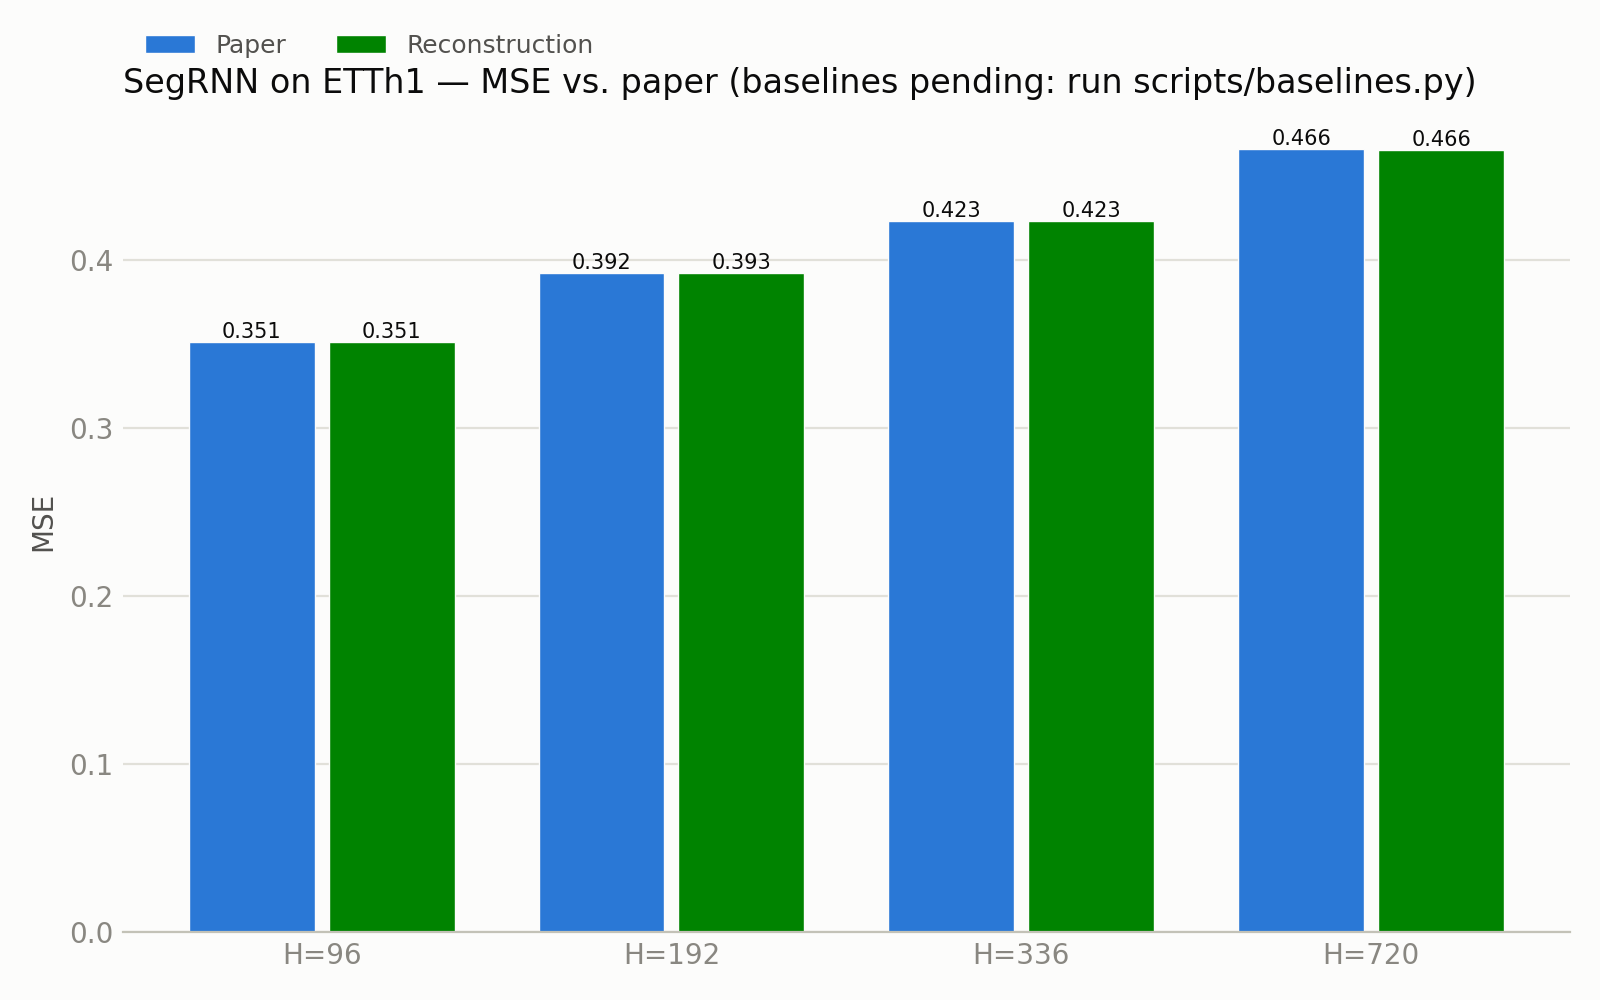
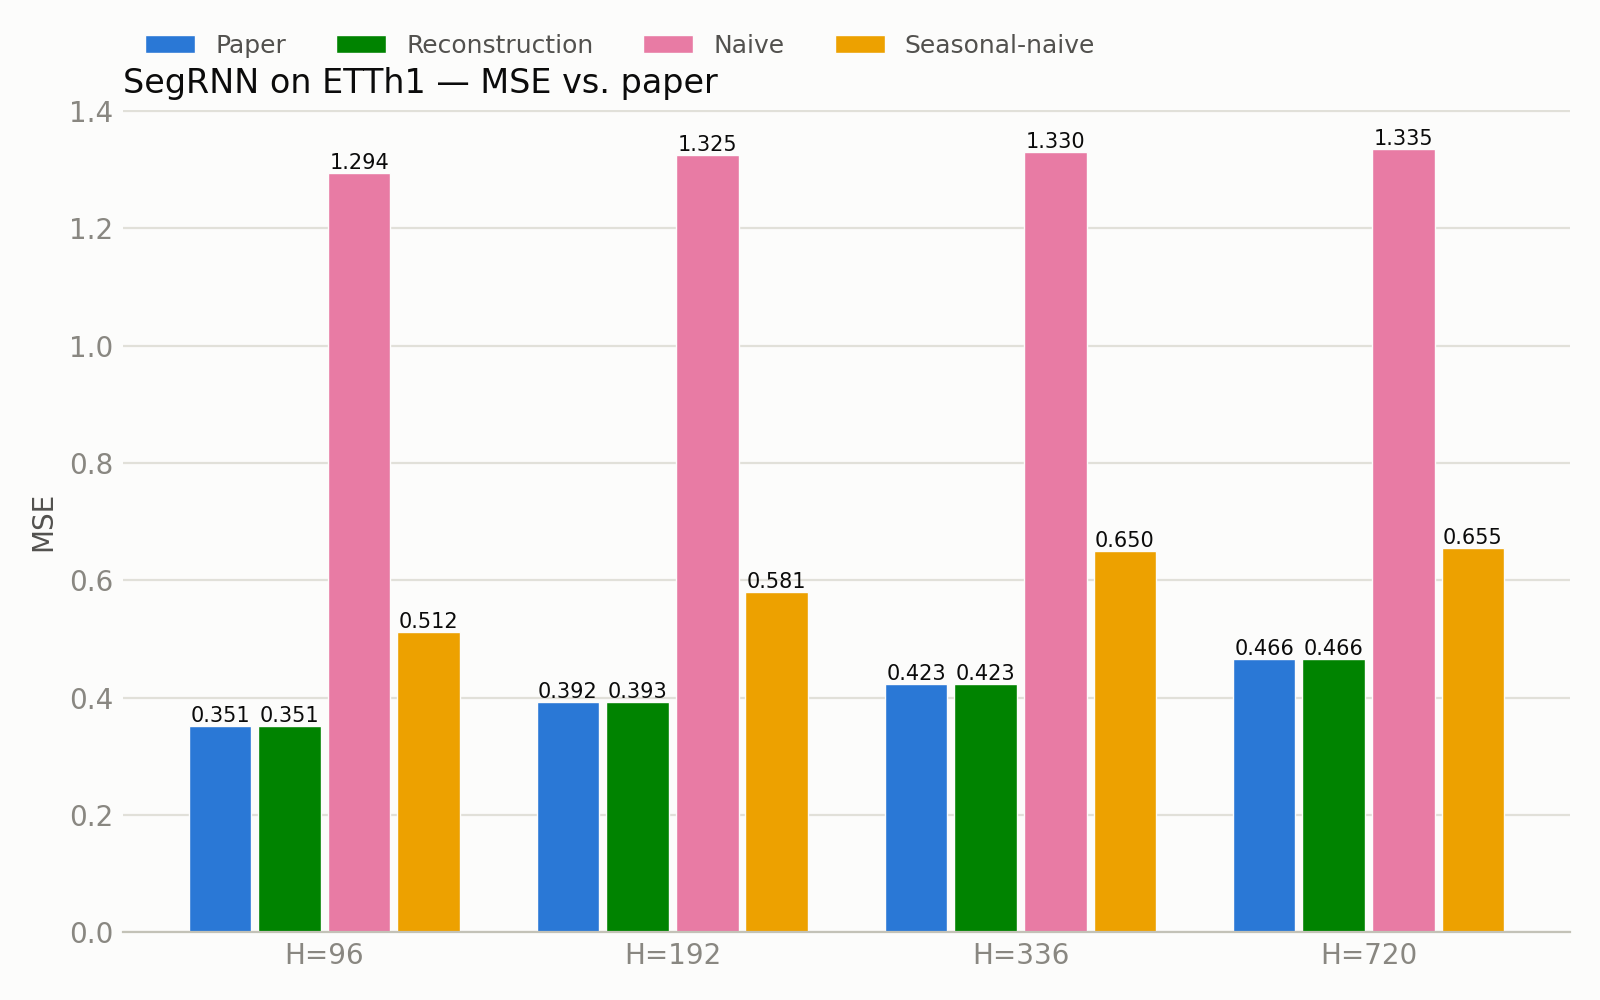
Complete Stage 1: log baseline results, finalize comparison figures/table
results/runs.csv: naive and seasonal-naive MSE/MAE/MASE for all four ETTh1
horizons, from the Colab baselines run. Regenerated both comparison
figures with all four series (Paper, Reconstruction, Naive,
Seasonal-naive) and filled in the report draft's baseline table --
SegRNN beats naive by 3.5-3.8x and seasonal-naive by 1.4-1.9x on MSE
across all horizons.

diff --git a/docs/stage1_report_draft.md b/docs/stage1_report_draft.md
@@ -102,9 +102,8 @@ hyperparameters) end to end on Google Colab (T4 GPU), fixed seed 2024:
 ![MSE comparison](figures/mse_comparison.png)
 ![MAE comparison](figures/mae_comparison.png)
 
-*(Regenerate with `python scripts/plot_results.py` after running the baselines
-cell — it will automatically add naive/seasonal-naive bars once
-`results/runs.csv` has those rows.)*
+*(Regenerate with `python scripts/plot_results.py` if `results/runs.csv`
+changes — it reads baseline rows from there automatically.)*
 
 **Match quality:** essentially exact — differences appear only in the 4th
 decimal place, consistent with ordinary GPU floating-point/cuDNN run-to-run
@@ -123,15 +122,21 @@ in-sample MAE computed on the training split only, as a second metric
 beyond the paper's own MSE/MAE, per the assignment's requirement to
 evaluate with "at least one metric studied in class."
 
-*[PLACEHOLDER — fill in after running the Colab notebook's baselines cell,
-which appends these automatically to `results/runs.csv`]*
-
 | Horizon | naive MSE | naive MAE | naive MASE | seasonal-naive MSE | seasonal-naive MAE | seasonal-naive MASE | SegRNN MSE | SegRNN MAE |
 |---|---|---|---|---|---|---|---|---|
-| 96 | | | | | | | 0.3510 | 0.3925 |
-| 192 | | | | | | | 0.3925 | 0.4142 |
-| 336 | | | | | | | 0.4233 | 0.4327 |
-| 720 | | | | | | | 0.4657 | 0.4720 |
+| 96 | 1.2944 | 0.7132 | 1.7239 | 0.5122 | 0.4333 | 1.0498 | **0.3510** | **0.3925** |
+| 192 | 1.3249 | 0.7331 | 1.7786 | 0.5808 | 0.4692 | 1.1415 | **0.3925** | **0.4142** |
+| 336 | 1.3299 | 0.7460 | 1.8147 | 0.6499 | 0.5008 | 1.2200 | **0.4233** | **0.4327** |
+| 720 | 1.3351 | 0.7550 | 1.8401 | 0.6554 | 0.5141 | 1.2488 | **0.4657** | **0.4720** |
+
+SegRNN beats naive by 3.5–3.8× on MSE and seasonal-naive by 1.4–1.9× across
+all horizons — the baselines aren't a rounding error away from SegRNN, so
+the reconstruction's advantage over trivial forecasting is real and not an
+artifact of the scaled-space metric convention. MASE > 1 for both baselines
+at every horizon confirms they're worse than the in-sample seasonal-naive
+reference by construction (naive noticeably more so, since ETTh1 has a
+strong daily cycle that the seasonal-naive baseline partially captures and
+plain naive ignores entirely).
 
 **Temporal evaluation protocol validity:** the split is strictly
 chronological by row index (train = first 12 months, val = next 4, test =
